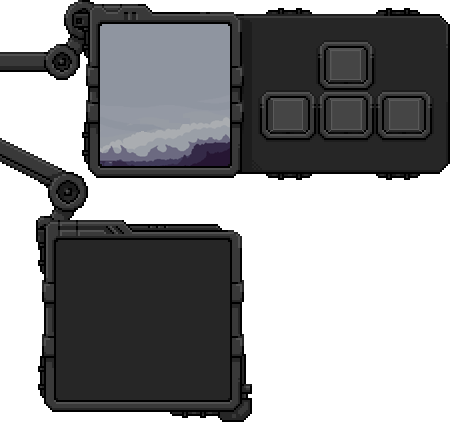
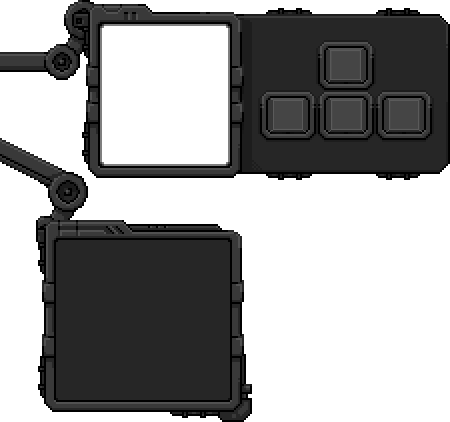
seleccion de stage

Changed region(s): [[0.2178, 0.0308, 0.5289, 0.4005]]

diff --git a/components/menu/stage-selection.vue b/components/menu/stage-selection.vue
@@ -1,0 +1,78 @@
+<script lang="ts">
+export default {
+  data() {
+    const random = randomNumber(1, 3);
+    return {
+      index: random,
+    };
+  },
+  computed: {
+    stage() {
+      return `/src/img/stages/${this.index}/stage.gif`;
+    },
+  },
+  mounted() {},
+  methods: {
+    previous() {
+      this.index = this.index - 1 < 1 ? 3 : this.index - 1;
+      console.log(this.index);
+      console.log(this.stage);
+    },
+    next() {
+      this.index = this.index + 1 > 3 ? 1 : this.index + 1;
+      console.log(this.index);
+      console.log(this.stage);
+    },
+  },
+  watch: {
+    index: function () {},
+  },
+};
+</script>
+
+<template>
+  <img
+    class="absolute left-1/2 bottom-0 z-10 w-[35%] -translate-x-1/2"
+    src="/src/img/assets/stage_selector.png"
+  />
+
+  <!-- Seleccion de stage -->
+  <div class="stage-preview absolute bottom-10 flex justify-center text-center align-middle">
+    <div class="absolute flex h-full w-full justify-between px-6">
+      <!-- Boton: Cambiar stage (derecha) -->
+      <button
+        class="z-50 w-6"
+        @click="next"
+      >
+        <img
+          class="abs rotate-x-180"
+          src="/src/img/assets/button_arrow.png"
+        />
+      </button>
+
+      <!-- Boton: Cambiar stage (izquierda) -->
+      <button
+        class="z-50 w-6"
+        @click="previous"
+      >
+        <img src="/src/img/assets/button_arrow.png" />
+      </button>
+    </div>
+
+    <!-- Stage -->
+    <img
+      class="h-full w-full"
+      :src="stage"
+    />
+  </div>
+</template>
+
+<style lang="scss">
+.stage-preview {
+  inset: 54% 34% 7.5% 34%;
+}
+
+button img {
+  filter: drop-shadow(0 0 0.2rem #262626);
+}
+</style>

diff --git a/components/menu/character-selection.vue b/components/menu/character-selection.vue
@@ -18,11 +18,6 @@ export default {
     },
   },
   methods: {
-    menosUno() {
-      if (characters.length < this.index) {
-        this.index = characters.length;
-      }
-    },
     previous() {
       this.index = this.index - 1 < 0 ? characters.length - 1 : this.index - 1;
     },
@@ -51,12 +46,12 @@ export default {
   />
 
   <!-- Selección de personaje -->
-  <div :class="['absolute', 'mx-3', 'my-2', `character-container-player-${rotate ? 2 : 1}`]">
+  <div :class="['absolute', 'mx-3', 'my-2', 'flex', 'flex-col', `character-container-player-${rotate ? 2 : 1}`]">
     <!-- Cambio de personaje -->
     <div class="flex w-full justify-between text-center align-middle leading-none">
       <!-- Boton: Cambiar personaje (derecha) -->
       <button
-        class="jupiter-crash z-50 w-6"
+        class="z-50 w-6"
         @click="next"
       >
         <img
@@ -70,7 +65,7 @@ export default {
 
       <!-- Boton: Cambiar personaje (izquierda) -->
       <button
-        class="jupiter-crash z-50 w-6"
+        class="z-50 w-6"
         @click="previous"
       >
         <img src="/src/img/assets/button_arrow.png" />

diff --git a/pages/index.vue b/pages/index.vue
@@ -5,6 +5,10 @@ definePageMeta({ key: (route) => route.fullPath });
 <template>
   <div class="flex h-screen w-screen flex-col justify-center overflow-hidden align-middle">
     <div class="relative flex w-full justify-between">
+      <!-- Seleccion de mapa -->
+      <MenuStageSelection />
+
+      <!-- Seleccion personaje: Player 1 -->
       <MenuCharacterSelection
         :rotate="false"
         :controls="{
@@ -12,6 +16,8 @@ definePageMeta({ key: (route) => route.fullPath });
           right: 'd',
         }"
       />
+
+      <!-- Seleccion personaje: Player 2 -->
       <MenuCharacterSelection
         :rotate="true"
         :controls="{
